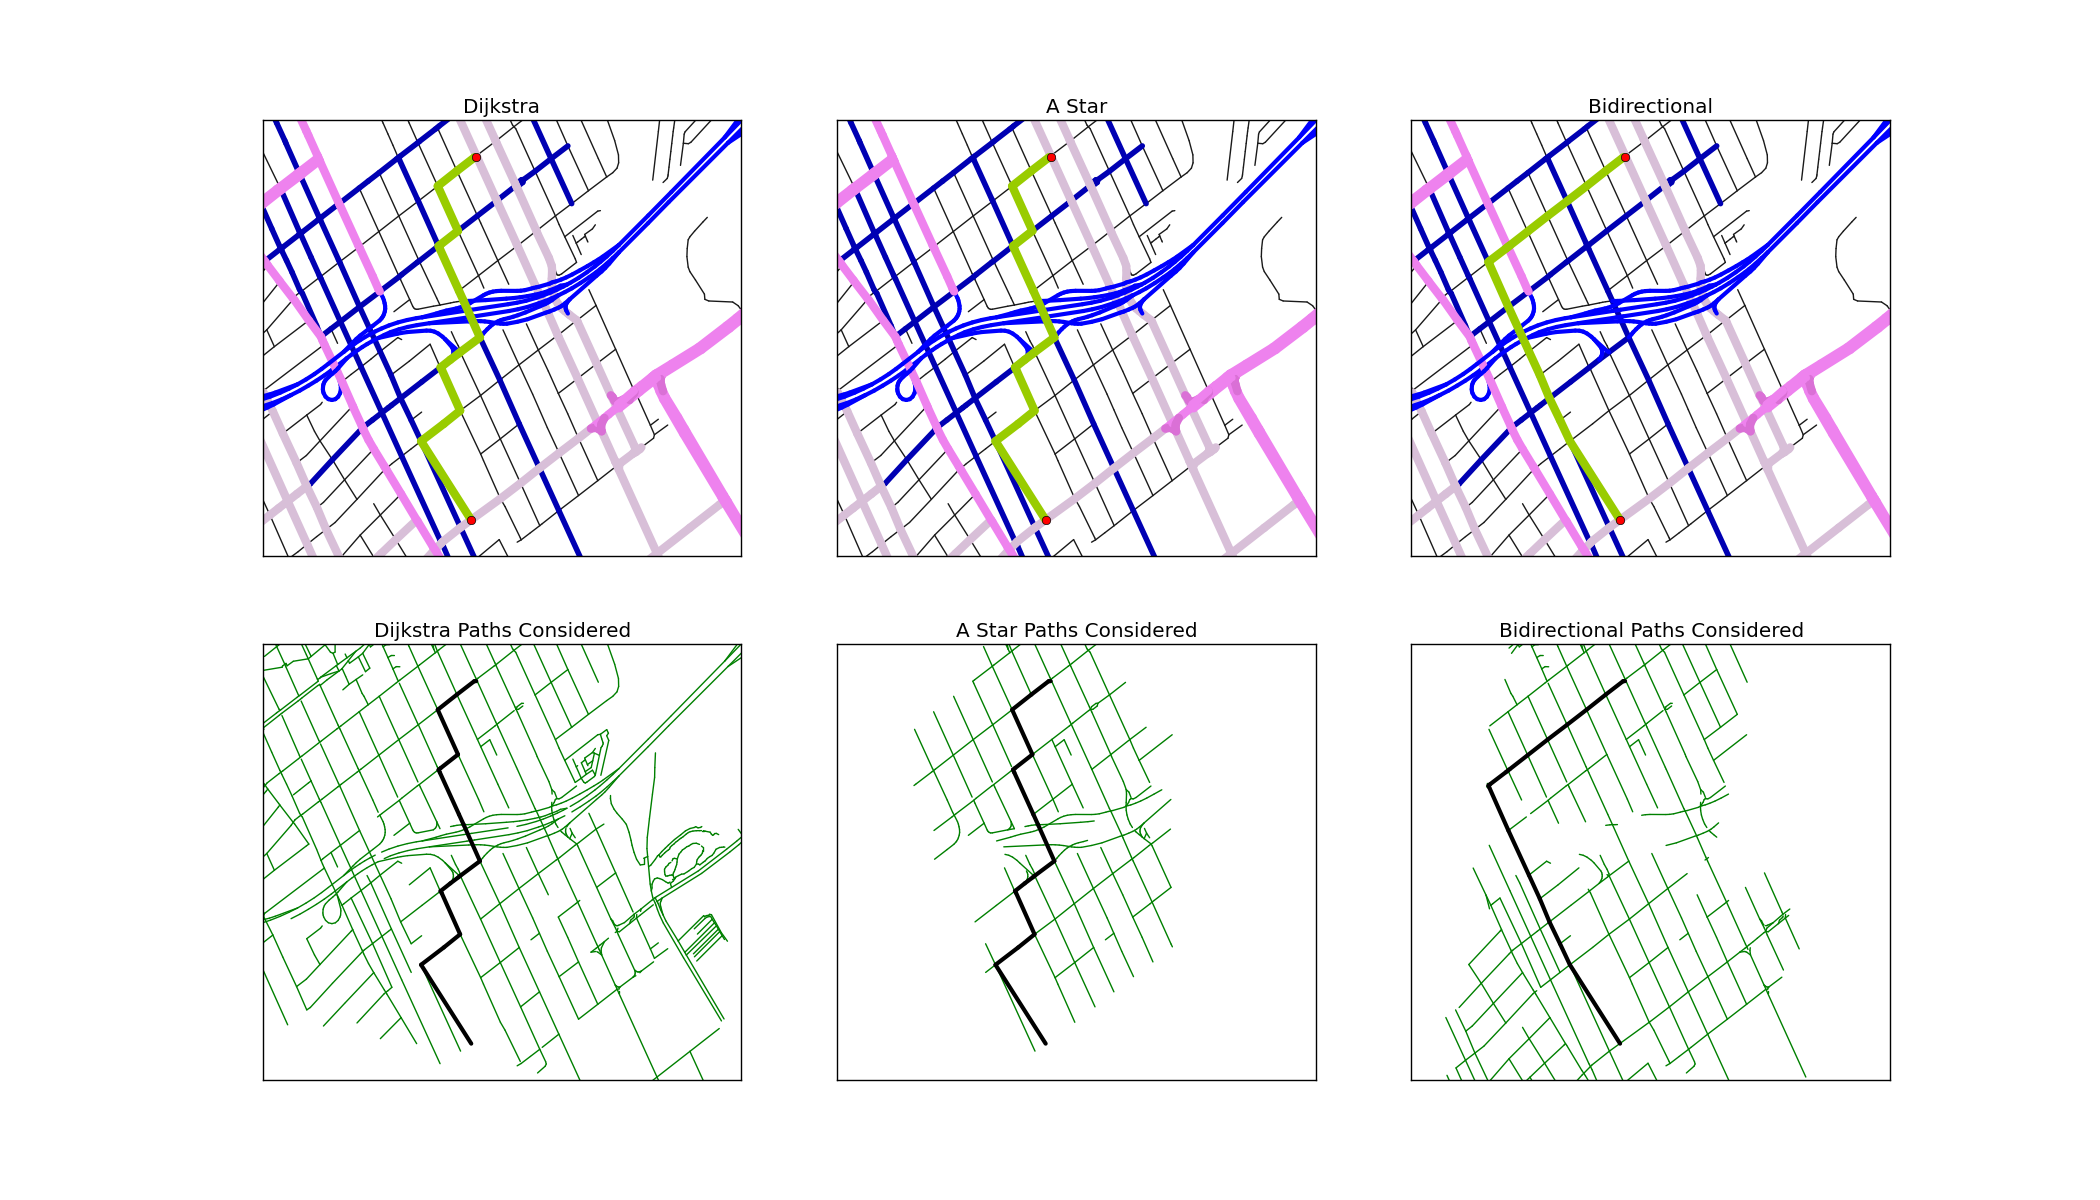
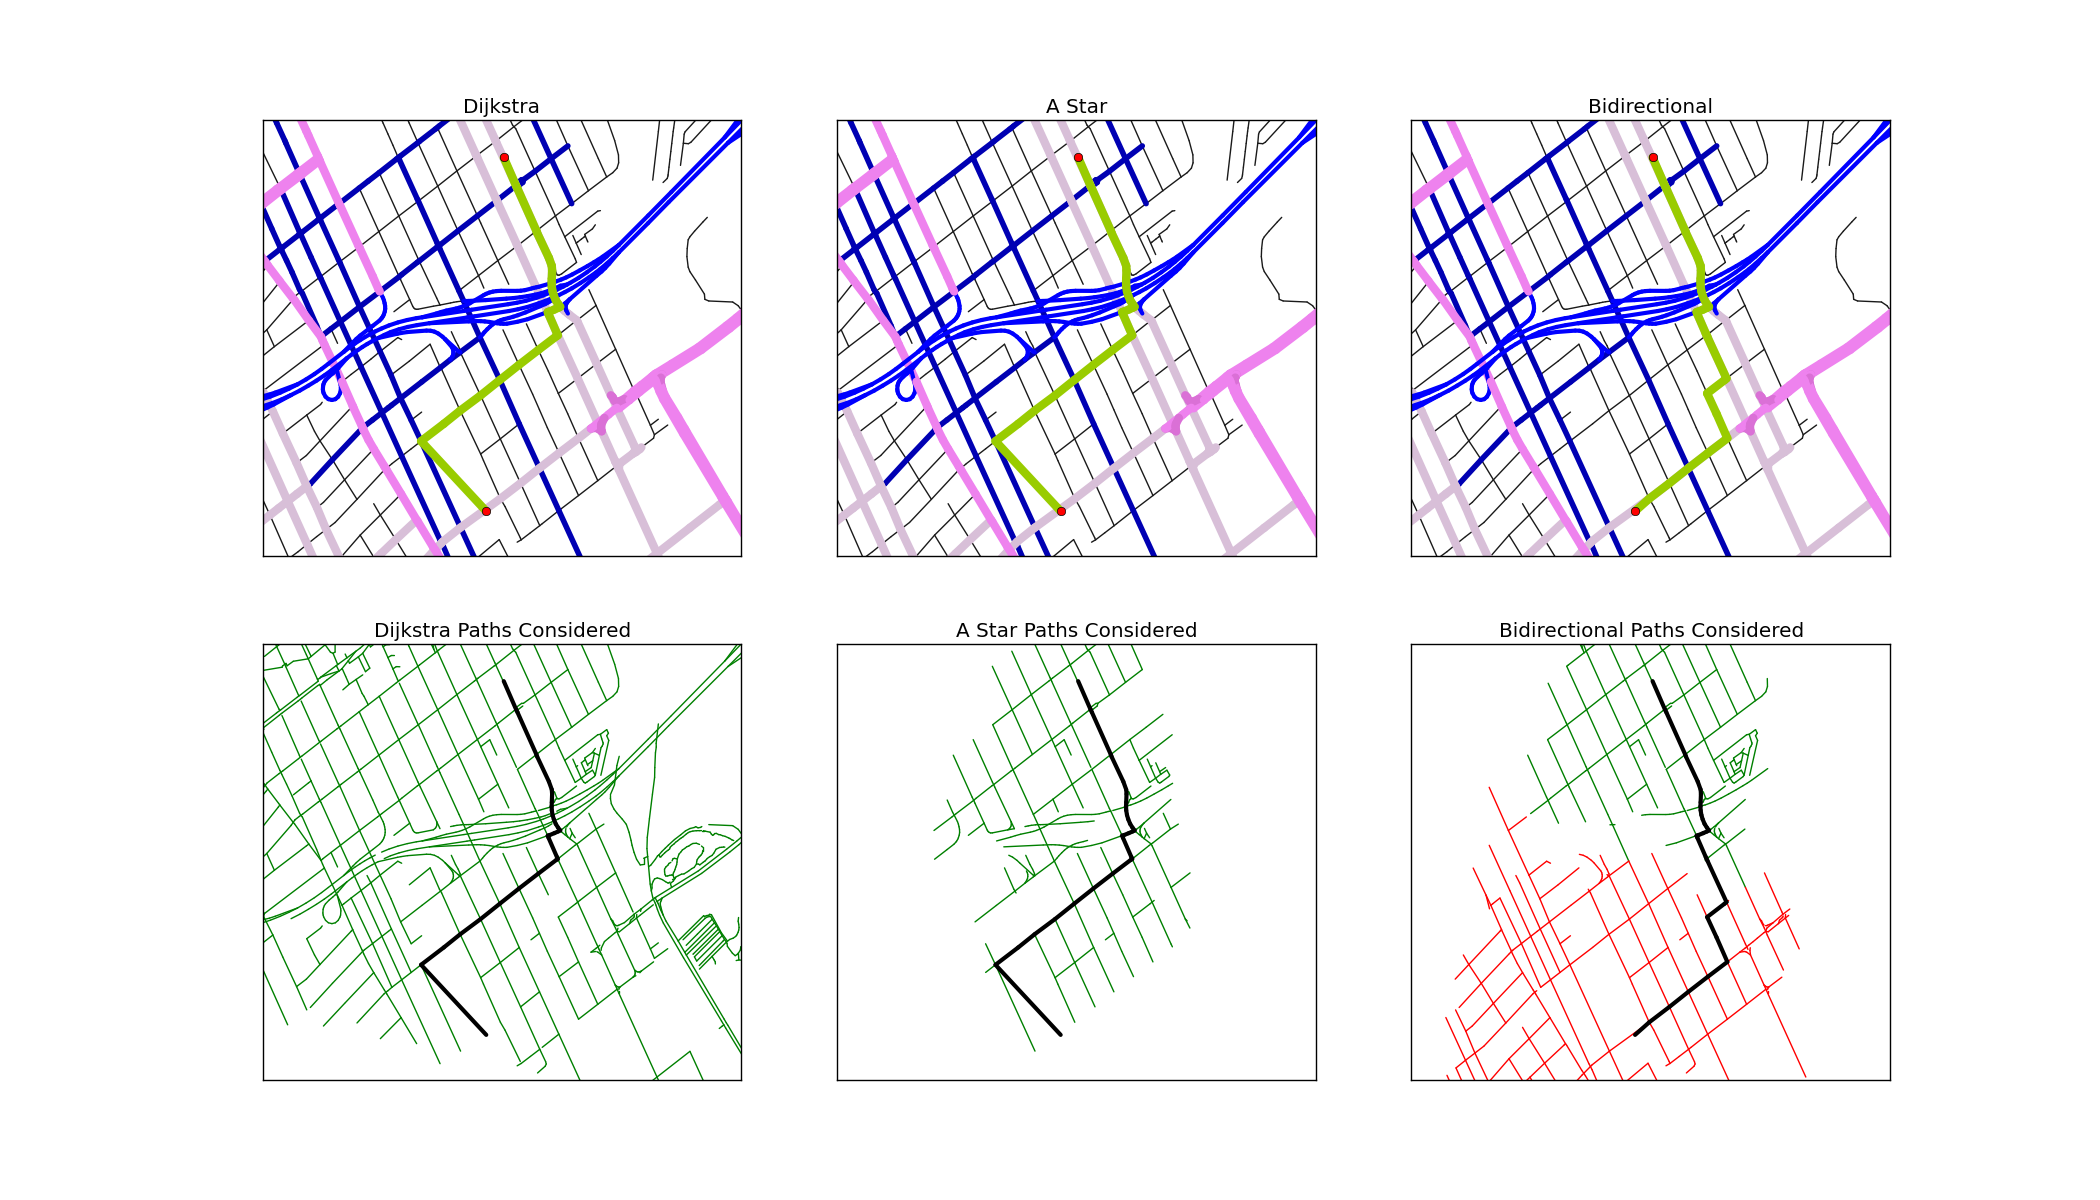
different colors for bidirectional paths found

diff --git a/osm_to_networkx.py b/osm_to_networkx.py
@@ -451,16 +451,16 @@ class MatplotLibMap:
                 # Now both the points have been marked. Now try to find a path.
                 path_dijkstra, paths_considered_dijkstra = shortest_path.dijkstra(self._graph, self._node1.id, self._node2.id)
                 path_astar, paths_considered_astar = shortest_path.astar(self._graph, self._node1.id, self._node2.id, self._osm)
-                path_bidirectional_dijkstra, paths_considered_bidirectional_dijkstra = shortest_path.bidirectional_dijkstra(self._graph, self._node1.id, self._node2.id)
+                path_bidirectional_dijkstra, paths_considered_from_start_bidirectional_dijkstra, paths_considered_from_end_bidirectional_dijkstra = shortest_path.bidirectional_dijkstra(self._graph, self._node1.id, self._node2.id)
 
                 self.plot_path(self._get_axes('dijkstra', 'main'), path_dijkstra, MatplotLibMap.renderingRules['correct_path'], animate=False)
-                self.plot_considered_paths(self._get_axes('dijkstra', 'paths_considered'), path_dijkstra, paths_considered_dijkstra)
+                self.plot_considered_paths(self._get_axes('dijkstra', 'paths_considered'), path_dijkstra, (paths_considered_dijkstra, 'green'))
 
                 self.plot_path(self._get_axes('astar', 'main'), path_astar, MatplotLibMap.renderingRules['correct_path'], animate=False)
-                self.plot_considered_paths(self._get_axes('astar', 'paths_considered'), path_astar, paths_considered_astar)
+                self.plot_considered_paths(self._get_axes('astar', 'paths_considered'), path_astar, (paths_considered_astar, 'green'))
 
                 self.plot_path(self._get_axes('bidirectional_dijkstra', 'main'), path_bidirectional_dijkstra, MatplotLibMap.renderingRules['correct_path'], animate=False)
-                self.plot_considered_paths(self._get_axes('bidirectional_dijkstra', 'paths_considered'), path_bidirectional_dijkstra, paths_considered_bidirectional_dijkstra)
+                self.plot_considered_paths(self._get_axes('bidirectional_dijkstra', 'paths_considered'), path_bidirectional_dijkstra, (paths_considered_from_start_bidirectional_dijkstra, 'green'), (paths_considered_from_end_bidirectional_dijkstra, 'red'))
 
                 plt.savefig("shortest_path.png")
                 return self._node2
@@ -505,28 +505,31 @@ class MatplotLibMap:
 
         plt.draw()
 
-    def plot_considered_paths(self, axes, path, paths_considered):
+    def plot_considered_paths(self, axes, path, *paths_considered_tuples):
         plt.sca(axes)
         edges = zip(path, path[1:])
 
         # Render all the paths considered
-        for i, edge in enumerate(paths_considered):
-            node_from = self._osm.nodes[edge[0]]
-            node_to = self._osm.nodes[edge[1]]
-            x_from = node_from.lon
-            y_from = node_from.lat
-            x_to = node_to.lon
-            y_to = node_to.lat
+        for path_considered_tuple in paths_considered_tuples:
+            paths_considered = path_considered_tuple[0]
+            color = path_considered_tuple[1]
+            for i, edge in enumerate(paths_considered):
+                node_from = self._osm.nodes[edge[0]]
+                node_to = self._osm.nodes[edge[1]]
+                x_from = node_from.lon
+                y_from = node_from.lat
+                x_to = node_to.lon
+                y_to = node_to.lat
 
-            plt.plot([x_from,x_to],[y_from,y_to],
-                    marker          = '',
-                    linestyle       = '-',
-                    linewidth       = 1,
-                    color           = 'green',
-                    solid_capstyle  = 'round',
-                    solid_joinstyle = 'round',
-                    zorder          = 0,
-                    )
+                plt.plot([x_from,x_to],[y_from,y_to],
+                        marker          = '',
+                        linestyle       = '-',
+                        linewidth       = 1,
+                        color           = color,
+                        solid_capstyle  = 'round',
+                        solid_joinstyle = 'round',
+                        zorder          = 0,
+                        )
 
         # Render all the paths considered
         for i, edge in enumerate(edges):

diff --git a/shortest_path.py b/shortest_path.py
@@ -201,7 +201,7 @@ def bidirectional_dijkstra(graph, start, end):
     path_from_end = reconstruct_path(source_end_came_from, end, broken_node)
     path_from_end.reverse()
 
-    return path_from_start + path_from_end, source_start_paths_considered + source_end_paths_considered
+    return path_from_start + path_from_end, source_start_paths_considered, source_end_paths_considered
 
 def astar(graph, start, end, osm):
     pq = PriorityQueue()
